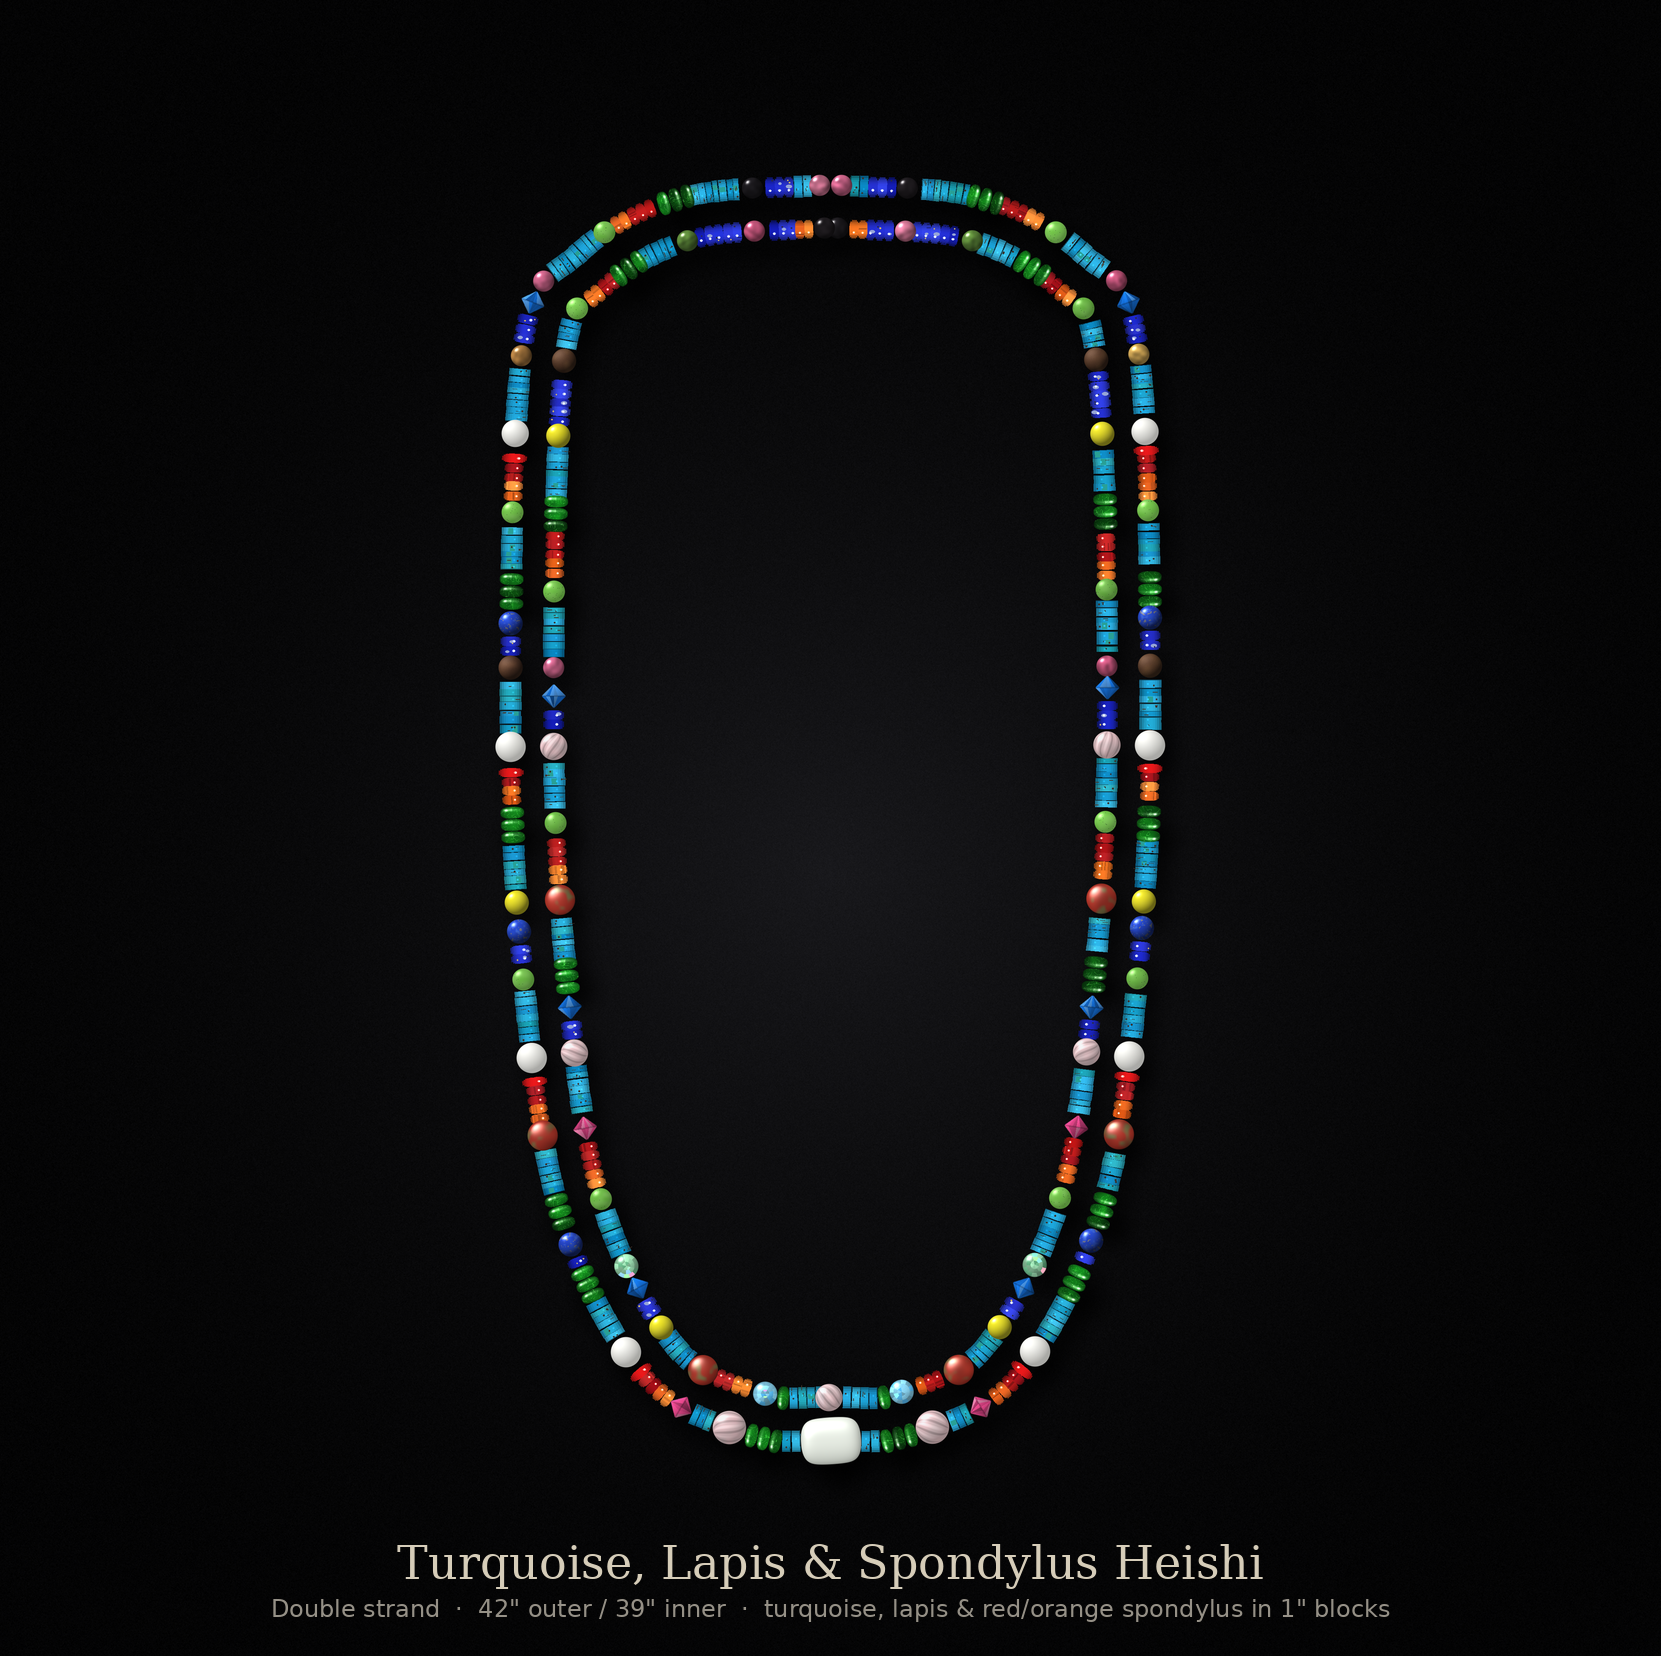
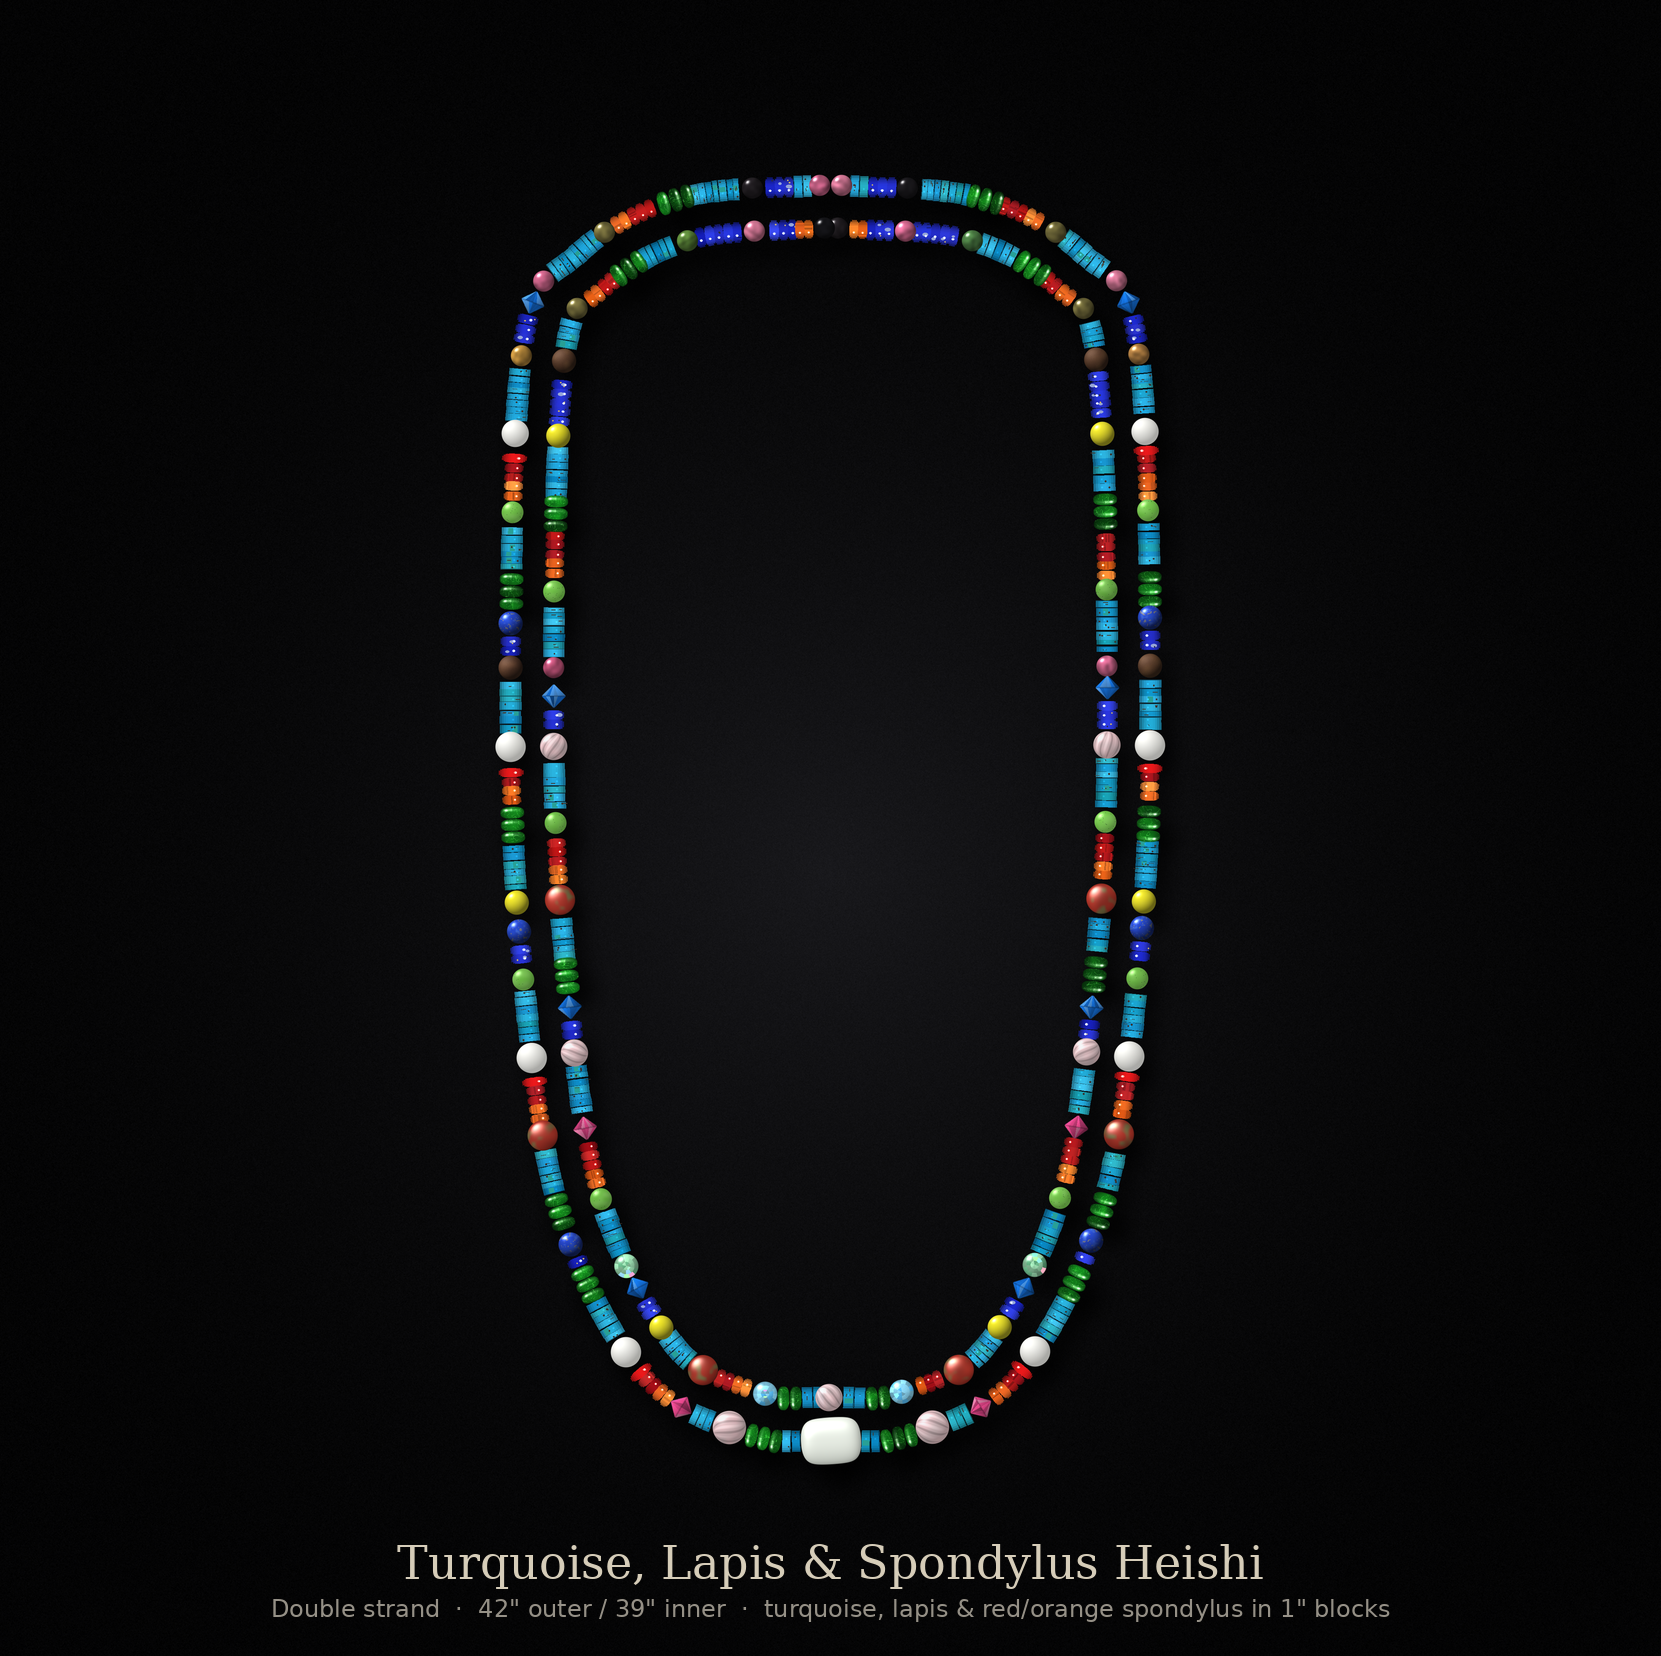
Version 2: top 4 green jade to dark tan-green tourmaline; diopside pairs on bottom inner strand
Claude-Session: https://claude.ai/code/session_014be1vF4Rdf8sv9Si75Gudv

diff --git a/necklace/render_necklace.py b/necklace/render_necklace.py
@@ -399,6 +399,10 @@ if V2:
         for k, b in enumerate(barrels[_st]):
             if b[5] == "jade":
                 barrels[_st][k] = b[:5] + ("gjade7",)
+    # only 10 green jade available: the 4 nearest the top (behind the neck) -> dark tan-green tourmaline
+    _gj = sorted([(b[1], st, k) for st in (0, 1) for k, b in enumerate(barrels[st]) if b[5] == "gjade7"])
+    for _y, st, k in _gj[:4]:
+        barrels[st][k] = barrels[st][k][:5] + ("tour_olive",)
 
 # 8 x 3 mm spondylus rondelles flank every white barrel: red on one side, orange on the other
 RON_D, RON_T = 8.0, 3.0
@@ -458,7 +462,7 @@ if not EXTRAS:
     rondelles = {0: [], 1: []}
 
 def clear_of_barrel(strand, pos):
-    return (all(abs(pos - b[4]) > (5.0 if b[5] == "conch_pink" else 3.65 if b[5] == "gjade7" else 5.5 if b[5] == "rose11b" else 4.5 if b[5] == "rose9b" else (6.0 if (V2 and b[5] == "jade") else BAR_L / 2)) + 0.4 for b in barrels[strand]) and
+    return (all(abs(pos - b[4]) > (5.0 if b[5] == "conch_pink" else 3.65 if b[5] == "gjade7" else 3.5 if b[5] == "tour_olive" else 5.5 if b[5] == "rose11b" else 4.5 if b[5] == "rose9b" else (6.0 if (V2 and b[5] == "jade") else BAR_L / 2)) + 0.4 for b in barrels[strand]) and
             all(abs(pos - b[4]) > ROUND_D[b[5]] / 2 + 0.4 for b in jaspers[strand]) and
             all(abs(pos - r[4]) > RON_T / 2 + 0.4 for r in rondelles[strand]) and
             all(abs(pos - t[4]) > tsize(t) / 2 + 0.3 for t in tourm[strand]))
@@ -717,10 +721,10 @@ if V2:
                     tourm[1][_k2] = (inner[_j][0], inner[_j][1], tang[_j][0], tang[_j][1], _bp, "bicone8")
             for _sg in (-1, 1):
                 _gc = _outer_fixed - 4.0                  # 8 mm glass keeps the same outer edge
-                for _p, _k in ((_bp + _sg * _gc, _kind), (_bp + _sg * (_gc - 4.0 - PER_L_ / 2), "peridot")):
+                for _p, _k in ((_bp + _sg * _gc, _kind), (_bp + _sg * (_gc - 4.0 - PER_L_), "peridot2")):   # two diopside
                     _j = min(int(np.searchsorted(s_in, _p)), len(inner) - 1)
                     tourm[1].append((inner[_j][0], inner[_j][1], tang[_j][0], tang[_j][1], _p, _k))
-                _span = (_gc - 4.0 - PER_L_) - _bh
+                _span = (_gc - 4.0 - 2 * PER_L_) - _bh
                 _nf = max(1, int(round(_span / 3.0)))
                 for _q in range(_nf):
                     _p = _bp + _sg * (_bh + _span / _nf * (_q + 0.5))
@@ -1196,6 +1200,9 @@ for st in (0, 1):
         if hidden(x, y):
             continue
         _stone = b[5] if len(b) > 5 else "white"
+        if _stone == "tour_olive":
+            ROSE_LATE.append((x, y, bseed, "olive"))   # dark tan-green tourmaline, drawn later
+            continue
         if _stone == "gjade7":
             spr = green_jade_sprite(bseed)         # 7.3 mm translucent light green jade
             px, py = P(x, y)
@@ -1716,7 +1723,7 @@ def pearl_sprite(seed, diam=8.0, base_rgb=(228, 220, 150), rim_rgb=(150, 140, 80
     return Image.fromarray(np.dstack([np.clip(col, 0, 255), alpha]).astype(np.uint8), "RGBA")
 
 for _x, _y, _sd, _dia in ROSE_LATE:
-    _spr = rose_sprite(_sd, _dia)
+    _spr = tourmaline_sprite(_sd + 500, (124, 116, 64)) if _dia == "olive" else rose_sprite(_sd, _dia)
     _px, _py = P(_x, _y)
     layer.paste(_spr, (int(_px - _spr.width / 2), int(_py - _spr.height / 2)), _spr)
 
